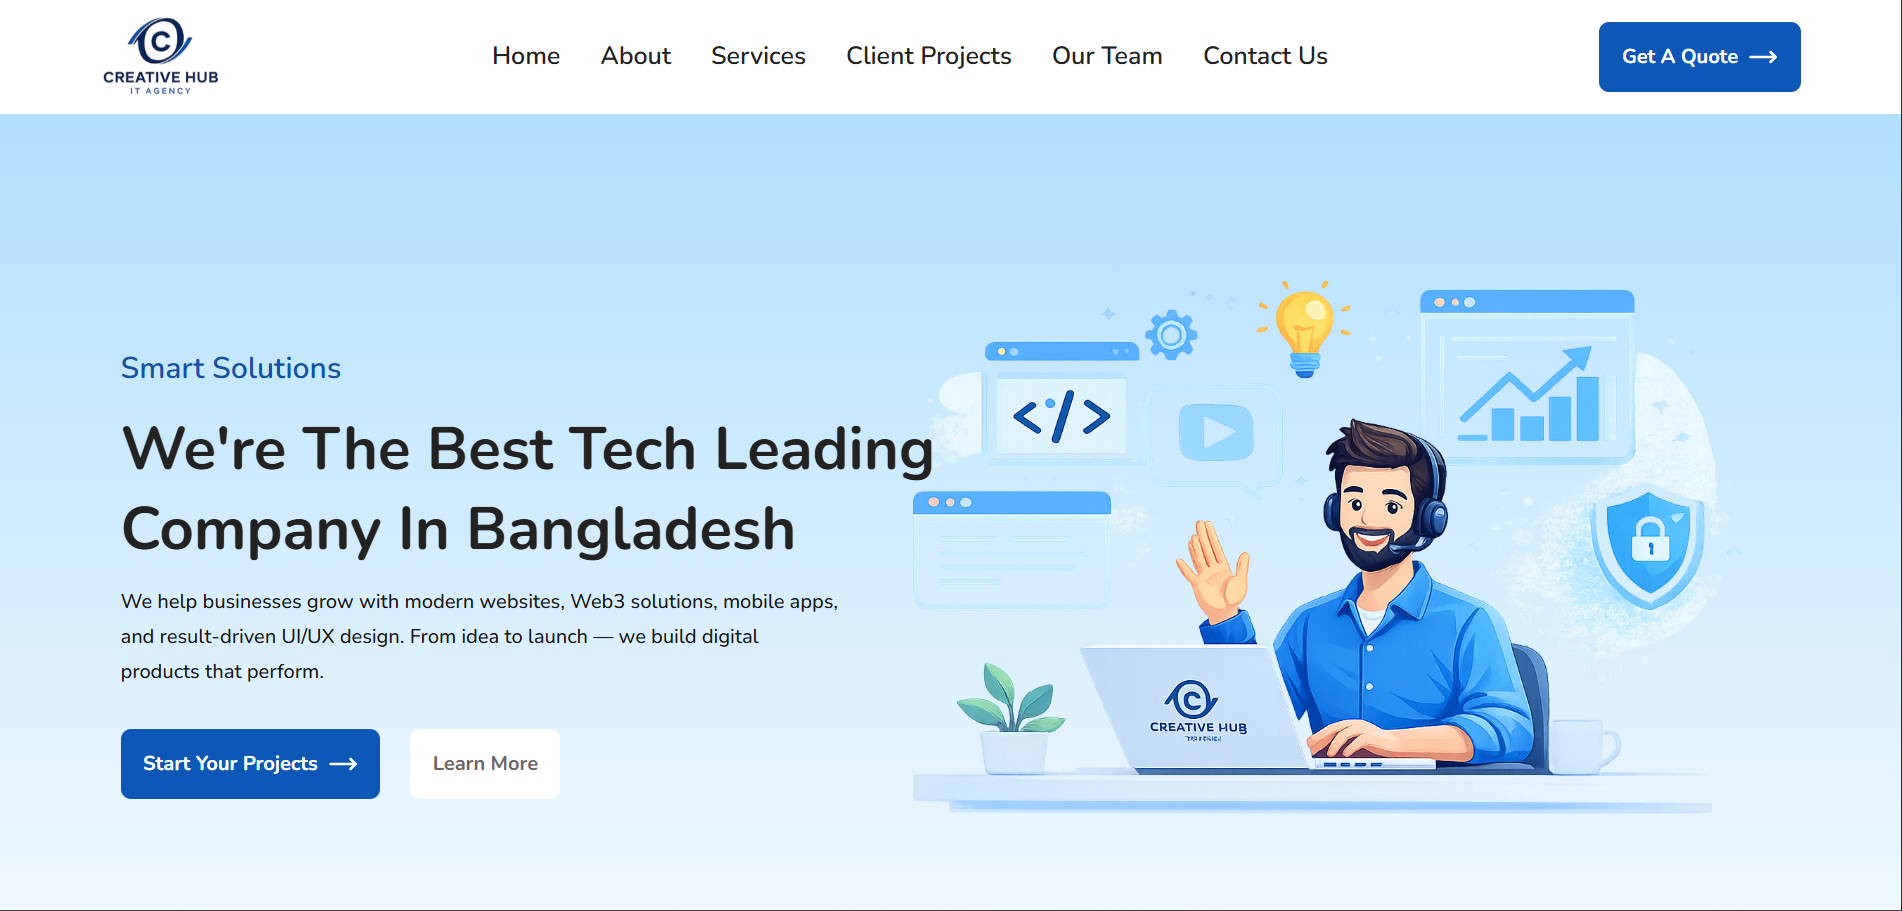
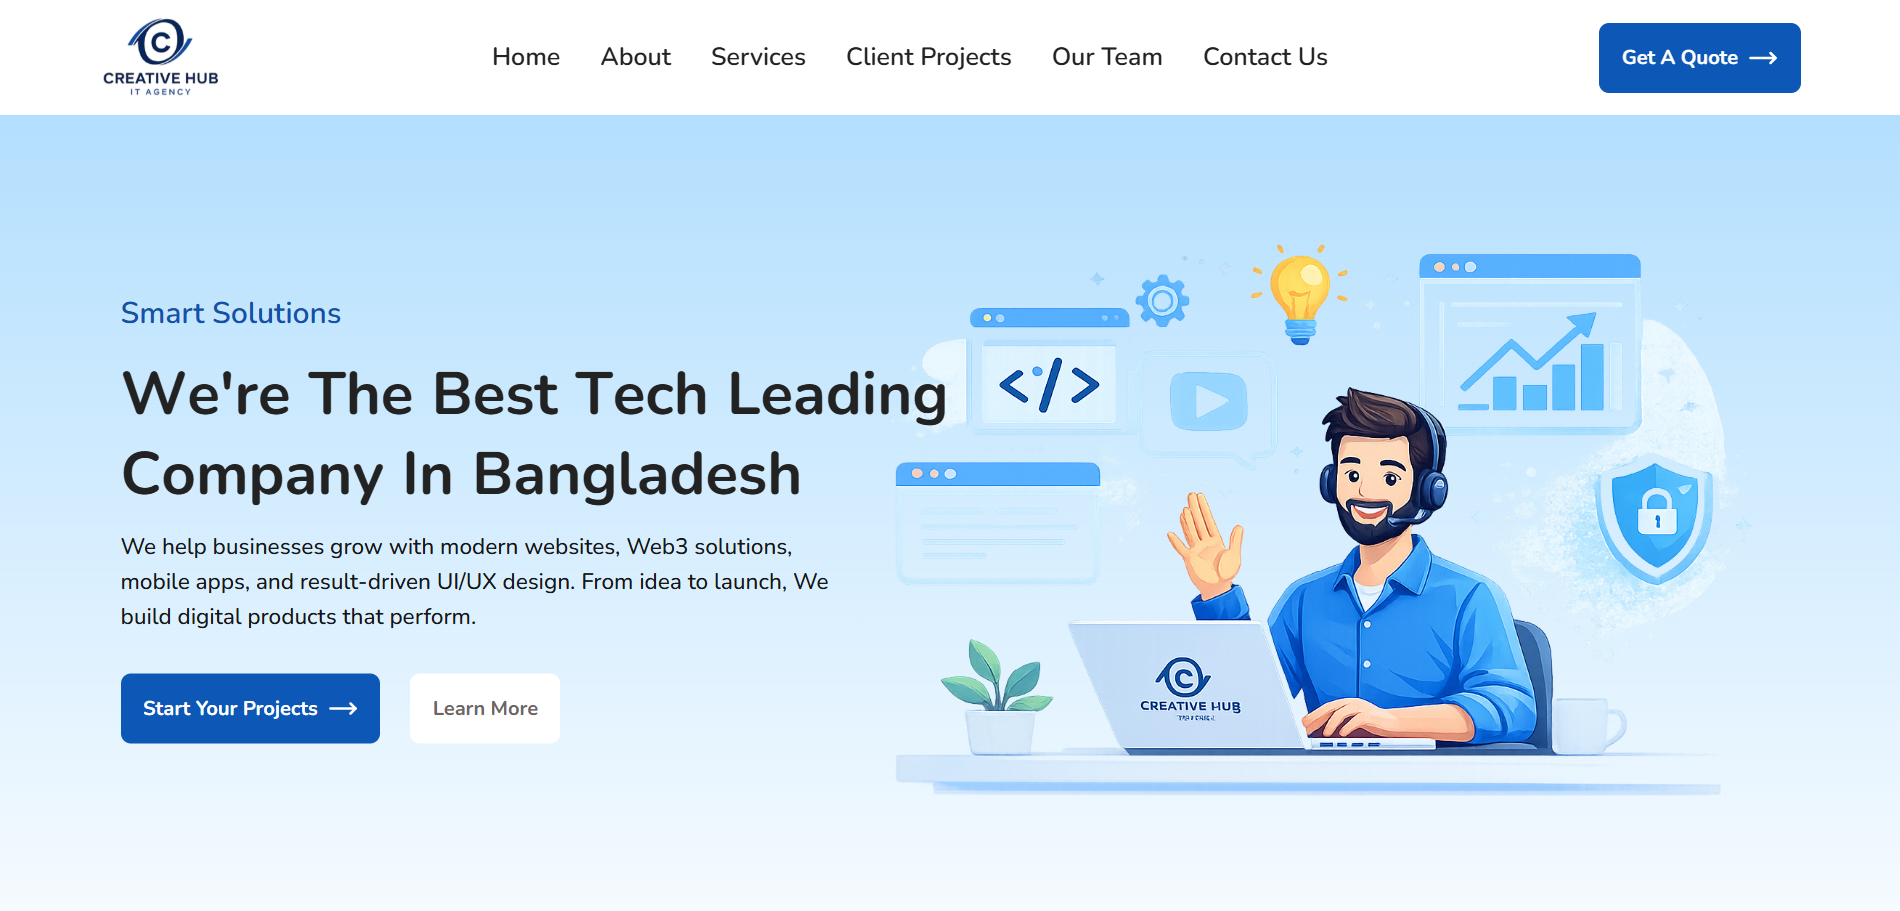
Added creative hub it portfolio as a featured project

diff --git a/src/components/projects.tsx b/src/components/projects.tsx
@@ -2,7 +2,7 @@ import { MdOutlineGridOn } from "react-icons/md";
 import akademi from "@/assets/akademi.png";
 import designForgee from "@/assets/design-forgee.png";
 import bookStore from "@/assets/book-store.png";
-import lingoBingo from "@/assets/lingo-bingo.png";
+import creativeHub from "@/assets/creative-hub.png";
 import * as motion from "motion/react-client";
 import ProjectCard from "./ui/project-card";
 import Modal from "./ui/modal";
@@ -26,7 +26,7 @@ const Projects = () => {
       <div className="mx-auto pt-10 ">
         <h1 className="text-3xl sm:text-4xl md:text-5xl mb-8">
           Featured
-          <span className="text-[#28e98c]"> Projects.</span>
+          <span className="text-[#28e98c]"> Projects</span>
         </h1>
         <div className="space-y-8">
           {/* Project cards */}
@@ -49,10 +49,10 @@ const Projects = () => {
             modalId="my_modal_designforgee"
           />
           <ProjectCard
-            image={lingoBingo}
-            title="Lingo Bingo"
-            liveLink="https://lingo-bingo-f6242.web.app/"
-            modalId="my_modal_lingo"
+            image={creativeHub}
+            title="Creative Hub IT"
+            liveLink="https://creativehubit.com.bd/"
+            modalId="my_modal_creativehub"
           />
 
           {/* Modals for the project description */}
@@ -65,14 +65,7 @@ const Projects = () => {
             liveLink="https://akademi-uni.web.app/"
             frontendRepo="https://github.com/ariful97768/Akademi-Scholarships-Management"
             backendRepo="https://github.com/ariful97768/Akademi-Server"
-            description="Akademi is a web-based platform designed to streamline the
-                scholarship application and management process. It allows
-                students to apply for scholarships seamlessly while enabling
-                administrators to efficiently review and process applications.
-                Built with the MERN stack and Firebase authentication, Akademi
-                ensures a smooth user experience with secure access control. The
-                platform also includes a payment gateway for fee submissions,
-                making the process more convenient for users."
+            description="Akademi is a web platform that streamlines the scholarship application and management process. It allows students to apply for scholarships with ease while helping administrators review and process applications efficiently. Built with the MERN stack and Firebase Authentication, it provides secure access control, a smooth user experience, and an integrated payment gateway for fee submissions."
             technologies={[
               "JavaScript",
               "React",
@@ -89,8 +82,8 @@ const Projects = () => {
               "Defining clear permissions for Admins, Students, and Moderators without conflicts",
             ]}
             solutions={[
-              "Implemented secure image upload system using imgbb API",
-              "Optimized database queries using indexing and aggregation pipeline",
+              "Implemented a secure image upload system using the ImgBB API",
+              "Optimized database queries using indexing and aggregation pipelines",
               "Implemented RBAC for secure access control",
             ]}
           />
@@ -120,11 +113,11 @@ const Projects = () => {
             challenges={[
               "Optimizing book search and filtering to deliver fast results for users",
               "Displaying real-time stock updates to prevent over-borrowing",
-              "Prevent users from borrowing more than 3 books at a time",
+              "Preventing users from borrowing more than 3 books at a time",
             ]}
             solutions={[
-              "Implemented optimized search and filtering using MongoDB aggregation pipeline",
-              "Used stock calculation before confirming borrow request",
+              "Implemented optimized search and filtering using a MongoDB aggregation pipeline",
+              "Used stock calculation before confirming borrow requests",
               "Implemented user borrowing tracking",
             ]}
           />
@@ -135,7 +128,7 @@ const Projects = () => {
             subtitle="Agency website clone"
             liveLink="https://design-forgee.vercel.app/"
             frontendRepo="https://github.com/ariful97768/Design-Forge"
-            description="Design Forge — clone of ilmora.agency, A modern and dynamic agency website built with React and Tailwind CSS. It features a sleek, responsive design with smooth animations and interactive elements to showcase the agency's services and portfolio. A fully responsive single-page website — built to showcase modern web layout, responsiveness, and design precision understanding."
+            description="Design Forge is a modern agency website clone inspired by ilmora.agency. Built with React and Tailwind CSS, it features a sleek responsive layout, smooth animations, and interactive sections designed to showcase services and portfolio work with strong visual precision."
             technologies={[
               "Typescript",
               "Next.js",
@@ -144,35 +137,26 @@ const Projects = () => {
             ]}
           />
           <Modal
-            modalId="my_modal_lingo"
-            image={lingoBingo}
-            title="Lingo Bingo"
-            subtitle="Learn language with fun"
-            liveLink="https://lingo-bingo-f6242.web.app/"
-            frontendRepo="https://github.com/ariful97768/Lingo-Bingo"
-            description="Lingo Bingo is an interactive and engaging word-based game
-                platform that combines the excitement of Bingo with language
-                learning. Players can participate in fun and educational games,
-                where they match words or phrases to improve their vocabulary.
-                The website features a dynamic user interface built with React,
-                with smooth animations and responsive design to enhance the user
-                experience. Integrated with Firebase for user authentication and
-                data management, Lingo Bingo ensures a secure and seamless
-                experience."
+            modalId="my_modal_creativehub"
+            image={creativeHub}
+            title="Creative Hub IT"
+            subtitle="A Creative Hub IT Portfolio"
+            liveLink="https://creativehubit.com.bd/"
+            description="Creative Hub IT is a modern, responsive digital agency portfolio built with the MERN stack as a technical assessment project. Based on a Figma design, it delivers a polished, pixel-accurate interface, secure authentication, smooth admin-side content management, and reliable image handling for a seamless user experience."
+            challenges={[
+              "Image hosting reliability: during development, I initially used ImgBB, but encountered server-side issues. I later migrated to Cloudinary for a more stable and scalable solution.",
+            ]}
             technologies={[
-              "JavaScript",
-              "React",
+              "Typescript",
+              "Next.js",
+              "Motion",
+              "Tailwind CSS",
+              "Swipper.js",
               "Node.js",
               "MongoDB",
-              "Express.js",
               "Firebase Auth",
-              "Tailwind CSS",
-              "React Toastify",
+              "Sweet Alert",
             ]}
-            challenges={[
-              "Structuring and categorizing words or phrases for easy access.",
-            ]}
-            solutions={["Implemented a dynamic and user-friendly interface"]}
           />
         </div>
         <div className="flex justify-center group items-center border hover:border-[#28E98C] w-full mt-10 rounded-full">

diff --git a/src/components/ui/modal.tsx b/src/components/ui/modal.tsx
@@ -7,10 +7,10 @@ export default function Modal({
   image,
   title,
   subtitle,
+  description,
   liveLink,
   frontendRepo,
   backendRepo,
-  description,
   technologies,
   challenges,
   solutions,
@@ -19,10 +19,10 @@ export default function Modal({
   image: StaticImageData;
   title: string;
   subtitle: string;
-  liveLink: string;
-  frontendRepo: string;
-  backendRepo?: string;
   description: string;
+  liveLink: string;
+  frontendRepo?: string;
+  backendRepo?: string;
   technologies: string[];
   challenges?: string[];
   solutions?: string[];
@@ -51,13 +51,20 @@ export default function Modal({
             >
               Live link
             </Link>
-            <Link
-              className="hover:text-green-400 transition-colors duration-300 underline text-xs md:text-base"
-              target="_blank"
-              href={frontendRepo}
-            >
-              Frontend repository
-            </Link>
+            {!frontendRepo && !backendRepo && (
+              <p className="hover:text-green-400 transition-colors duration-300 underline text-xs md:text-base">
+                Closed source
+              </p>
+            )}
+            {frontendRepo && (
+              <Link
+                className="hover:text-green-400 transition-colors duration-300 underline text-xs md:text-base"
+                target="_blank"
+                href={frontendRepo}
+              >
+                Frontend repository
+              </Link>
+            )}
             {backendRepo && (
               <Link
                 className="hover:text-green-400 transition-colors duration-300 underline text-xs md:text-base"

diff --git a/src/app/portfolio/page.tsx b/src/app/portfolio/page.tsx
@@ -69,7 +69,7 @@ export default function Projects() {
         <ProjectCard
           image={creativeHub}
           title="Creative Hub IT"
-          liveLink="https://creative-hub-it-portfolio.vercel.app/"
+          liveLink="https://creativehubit.com.bd/"
           modalId="my_modal_creativehub"
         />
 
@@ -217,7 +217,7 @@ export default function Projects() {
           image={creativeHub}
           title="Creative Hub IT"
           subtitle="A Creative Hub IT Portfolio"
-          liveLink="https://creative-hub-it-portfolio.vercel.app/"
+          liveLink="https://creativehubit.com.bd/"
           frontendRepo="https://github.com/ariful97768/Creative-Hub-Portfolio"
           description="A modern, responsive digital agency portfolio website built with Next.js, TypeScript, and Tailwind CSS. Developed as a technical assessment task based on a specific Figma design."
           technologies={[